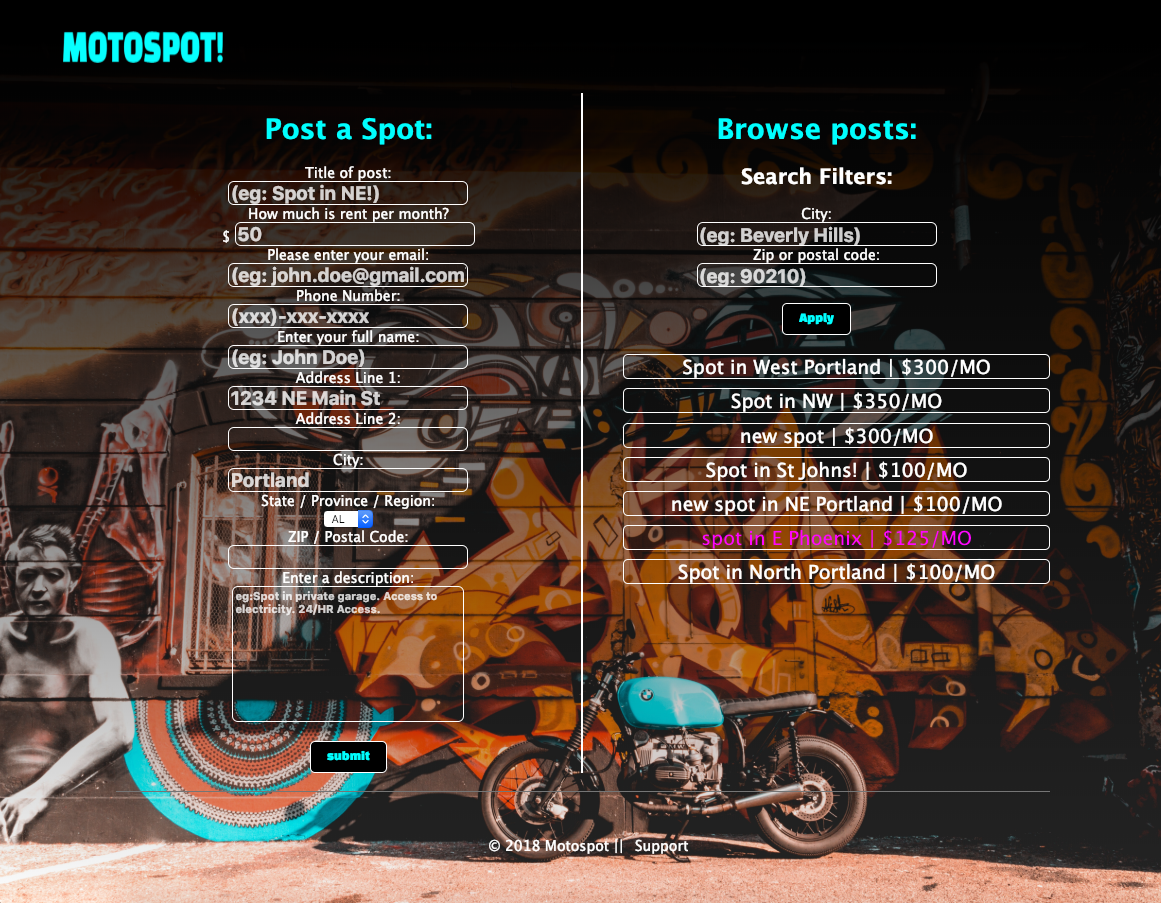
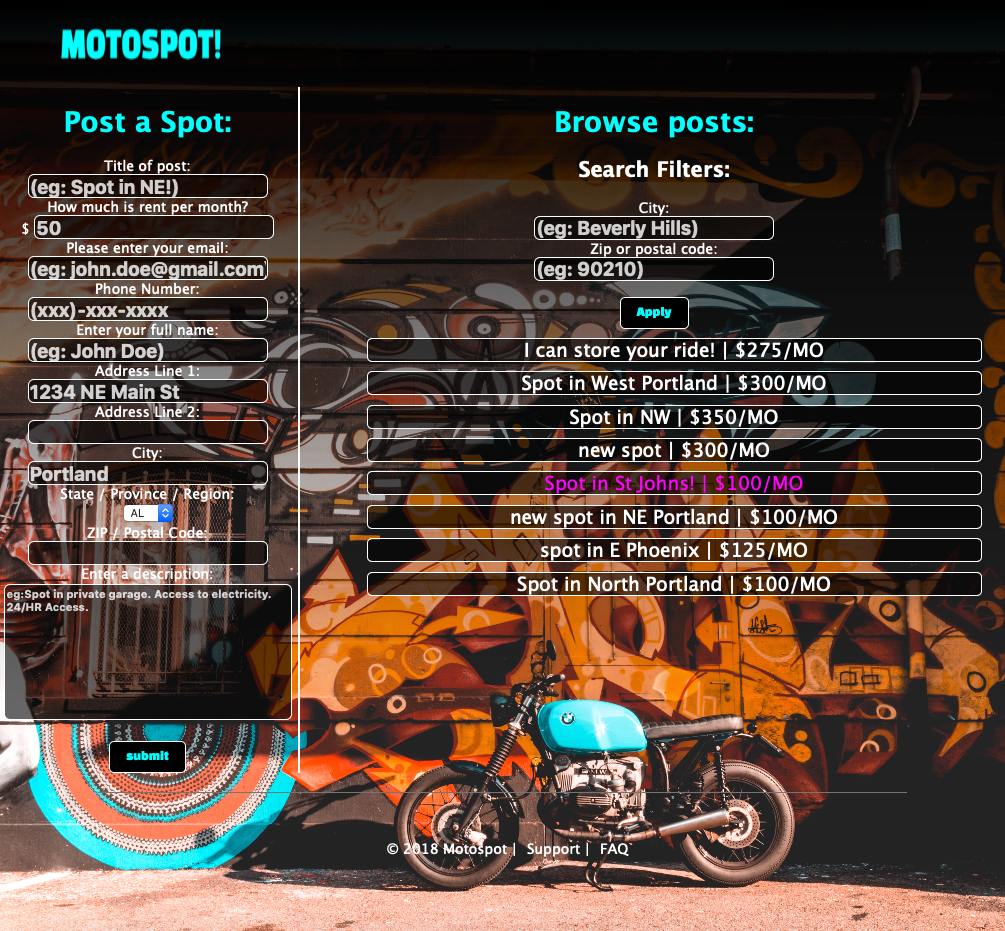
added a background color black to input fields for better visibility

diff --git a/public/stylesheets/style.css b/public/stylesheets/style.css
@@ -70,6 +70,7 @@ footer a:hover {
   margin-left: 4rem;
   padding: 0;
 }
+
 #centered-logo {
   height: 2rem;
   width: 10rem;
@@ -196,8 +197,9 @@ footer a:hover {
   resize: none;
 }
 .main {
-  background: linear-gradient( black 5%, transparent 100%),
-  url('../images/bluebike2.jpg') no-repeat center;
+  background:
+    linear-gradient(black 10%, transparent 80%),
+    url('../images/bluebike2.jpg') no-repeat center;
   background-size: cover;
   background-attachment: fixed;
   color: white;
@@ -239,14 +241,15 @@ input[type='number']{
   color: white;
   font-weight: bold;
   font-size: 1.2rem;
-  background-color: transparent;
+  background-color: rgba(0,0,0,.5);
   width: 15rem;
   height: 1.5rem;
 }
 
 textarea {
   border-radius: 6px;
-  background-color: transparent;
+  border: 3px solid white;
+  background-color: rgba(0,0,0,.5);
   color: white;
   font-weight: bold;
 }
@@ -327,6 +330,7 @@ input[type='submit'] {
   border: 1px solid white;
   border-radius: 5px;
   /* width: 50vw; */
+  background-color: rgba(0,0,0,.5);
 }
 
 
